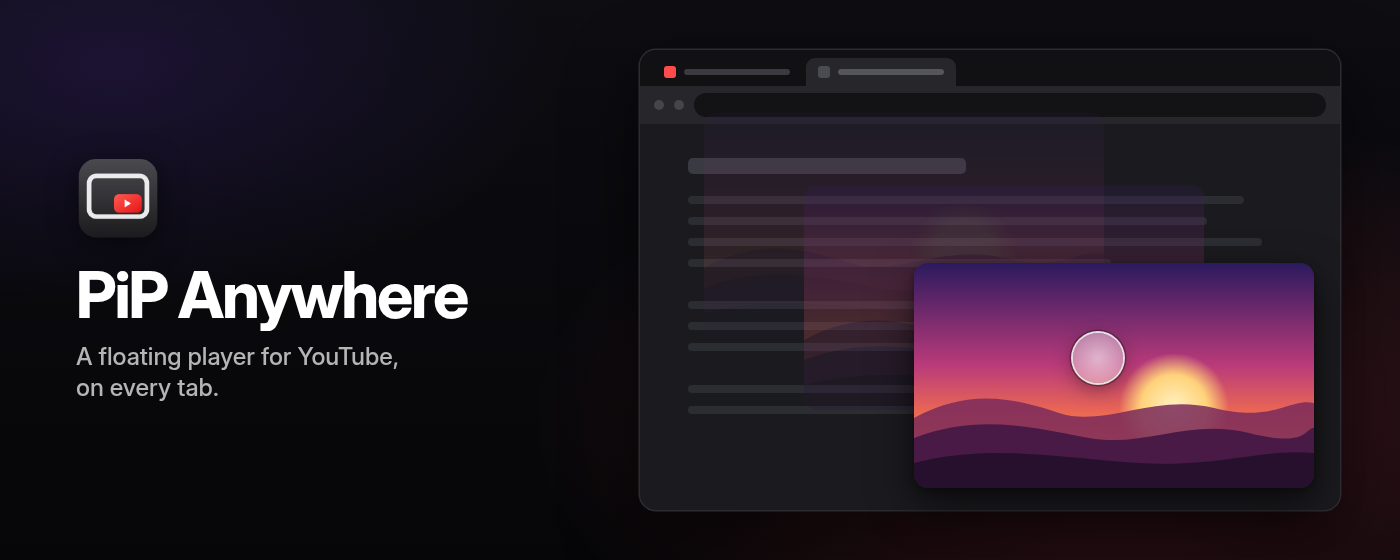
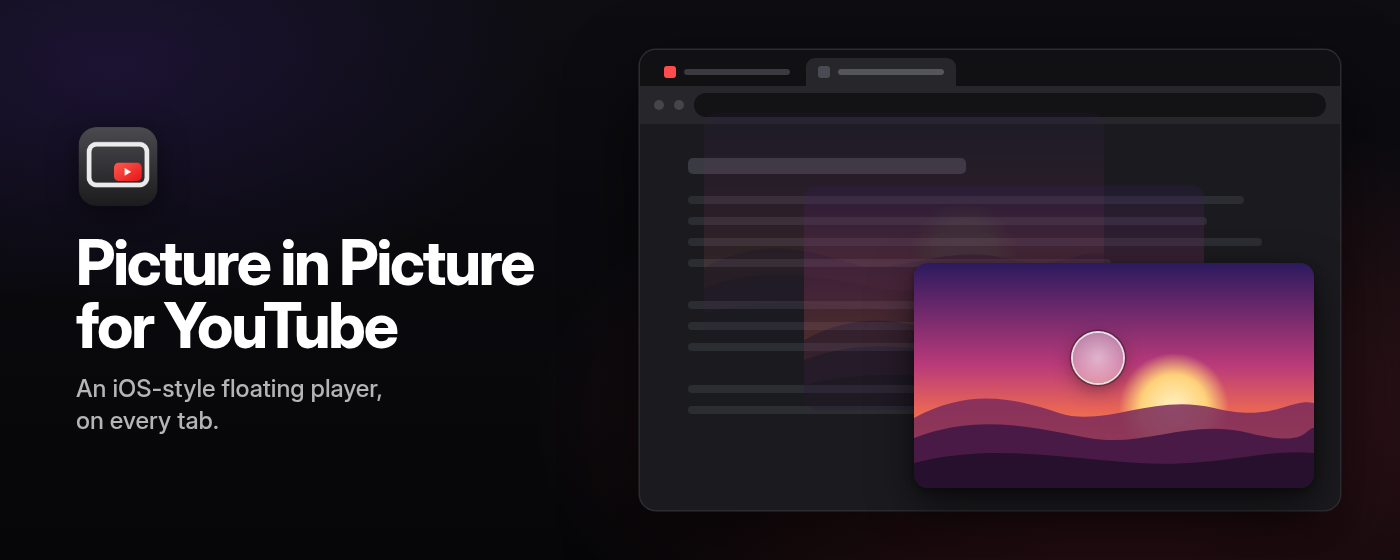
Store tiles and promo end card: use the new name

Changed region(s): [[0.0307, 0.2125, 0.3993, 0.7893]]

diff --git a/dev/promo-video/stage.html b/dev/promo-video/stage.html
@@ -111,8 +111,8 @@
 </div>
 <div id="end">
   <img id="end-icon">
-  <h1>PiP Anywhere</h1>
-  <p>A floating player for YouTube, on every tab.</p>
+  <h1>Picture in Picture for YouTube</h1>
+  <p>An iOS-style floating player, on every tab.</p>
   <div class="pill">Free on the Chrome Web Store</div>
 </div>
 <script>
